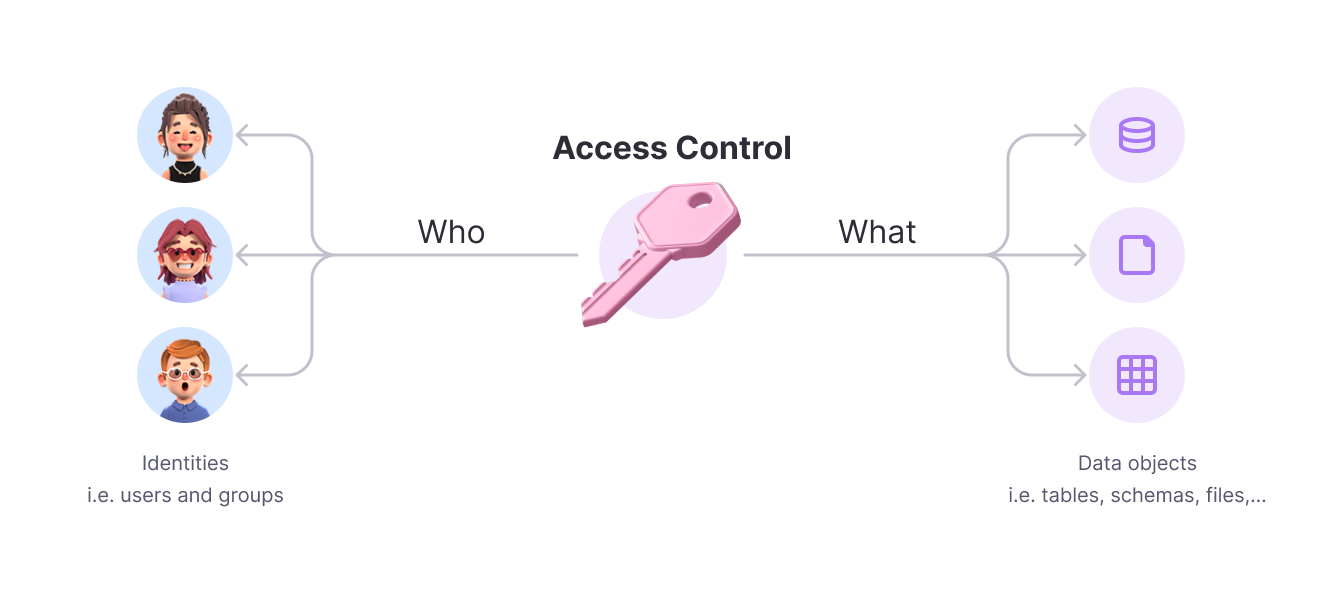
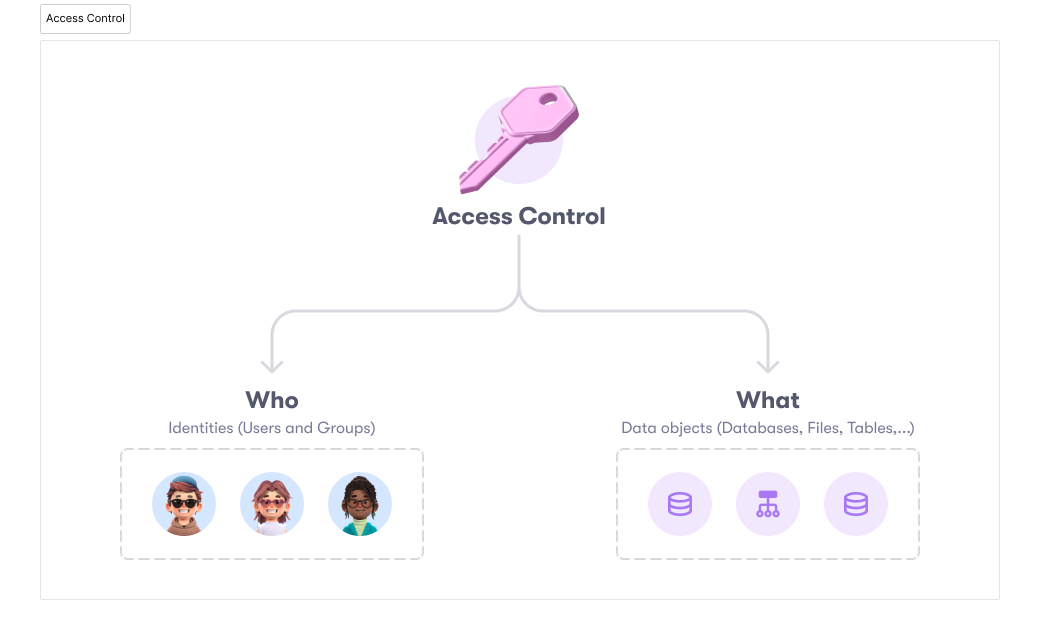
Updating images

diff --git a/docs/overview/concepts.md b/docs/overview/concepts.md
@@ -23,7 +23,7 @@ All other functionalities (e.g. access and usage insights, access requests etc.)
 Identities are entities that can gain access to resources. This can be a physical person, a group of people, a service account (i.e. machine user) ...
 
 To model these identities, we distinguish several elements in the Raito model:
-![Identities Model](/assets/images/cloud/uservsaccount.png)
+![Identities Model](/assets/images/cloud/identities.png)
 
 ### Identity Stores
 An identity store literally represents a store of identities. It contains accounts and, optionally, groups.<br>
@@ -73,6 +73,8 @@ Data objects are organized in a hierarchy under its data source. For example, fo
 ## Access Controls
 In Raito, an access control is the abstract representation of 'who gets access to what', independent of how this gets implemented in the underlying data source.
 
+![Access control](/assets/images/cloud/accesscontrol.png)
+
 Access controls are the only entities that are synchronized in two directions. Existing access controls are pulled in from the data source and access controls that get created and updated in Raito are pushed back to the data source.  
 This unique bi-directional approach allows you to get insights into your current situation on the first day of using Raito and allows you to start managing access in a more structured way, step-by-step, across all your data sources. 
 
@@ -99,6 +101,7 @@ To manage access, an access control defines the *action* that is performs. The f
 Access controls can be linked together in an inheritance structure to provide more powerful access management capabilities. Concretely, this means that, when defining the 'who' of an access control, you can also point to a Grant (or Purpose) access control. This means that the access control will be applicable for all the users of that Grant as well. For example:
 
 - You define a *Mask* access control that should be applicable to all users except for the users from a certain *Grant*.
+  ![Mask Inheritance](/assets/images/cloud/inheritance.png)
 - You want a *Row Filter* to be applied for the users of a certain *Grant*.
 - The users of one *Grant* should also get access to the data defined in another *Grant*.
 
